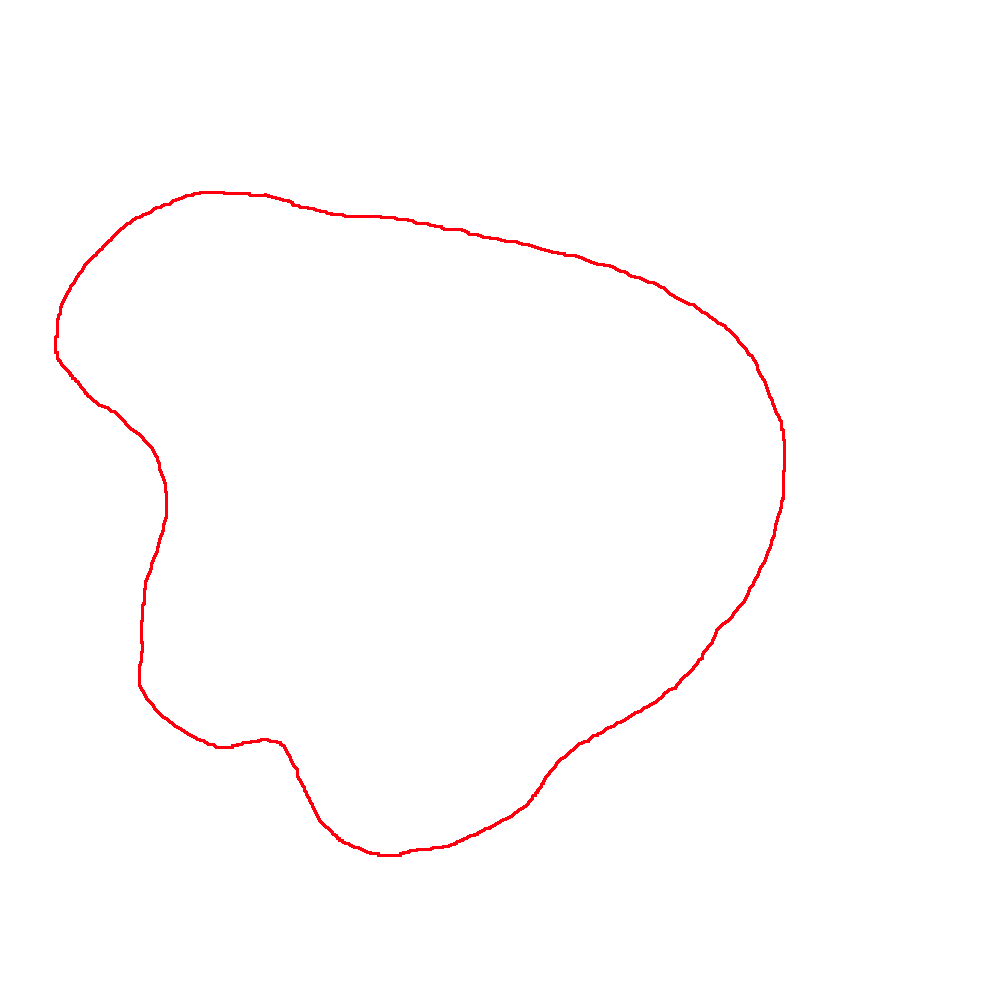
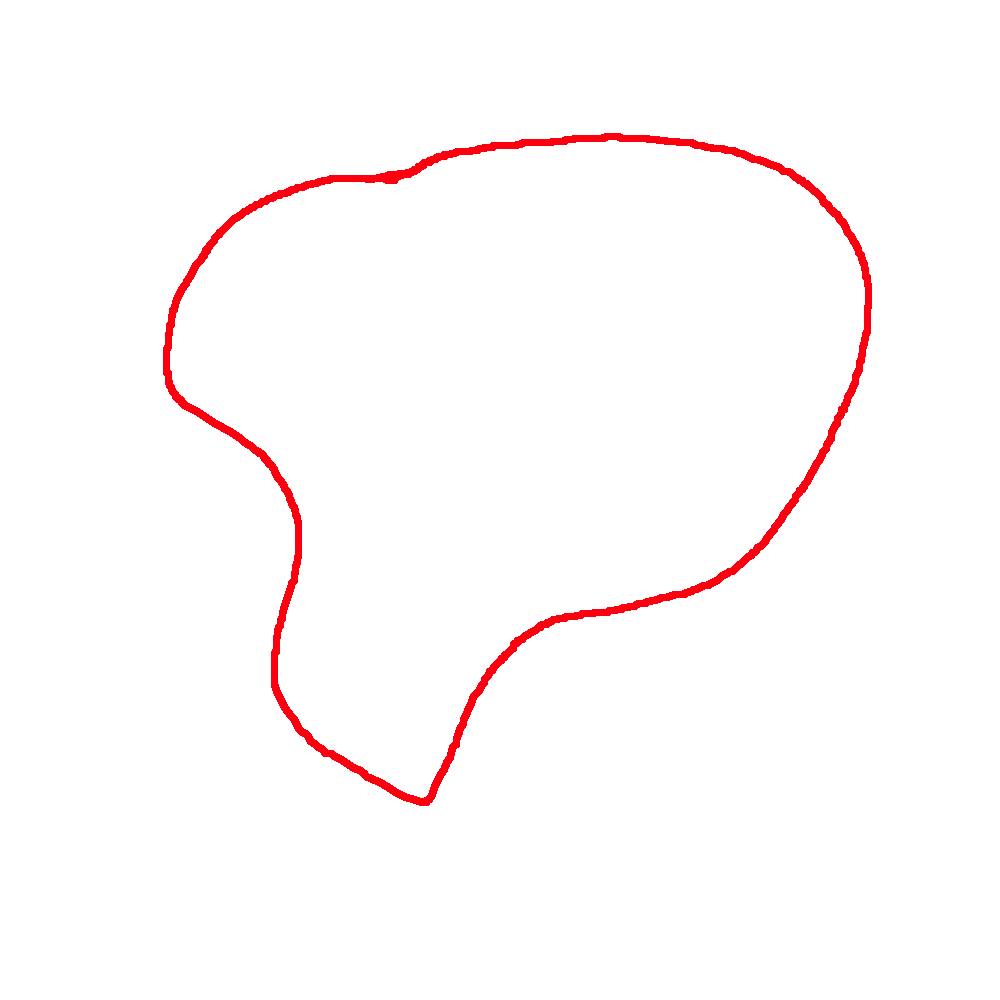
more cleanup

diff --git a/generate_track.py b/generate_track.py
@@ -3,10 +3,27 @@ import os
 import cv2
 import numpy as np
 import sys
+
 sys.path.append(os.getcwd())
+
 
 def load_numpy_file(file_path):
     return np.load(file_path)
+
+
+def draw_contours(center, inner, outer, shape, scale_factor=1):
+    # TODO: determine shape based on size of outer ndarray
+    # TODO: apply scale_factor in separate function which takes the ndarray and returns a scaled ndarray,
+    #  then use that in the draw_numpy_file function as well
+    blank_image = np.zeros(shape, np.uint8)
+
+    cv2.drawContours(blank_image, [inner], -1, (255, 0, 0), 1)
+    cv2.drawContours(blank_image, [outer], -1, (255, 0, 0), 1)
+    cv2.drawContours(blank_image, [center], -1, (12, 215, 255), 1)
+    cv2.imshow("Track", blank_image)
+
+    pass
+
 
 def draw_numpy_file(file_path, x_offset=0, y_offset=6, scale=100):
     track = np.load(file_path)
@@ -15,9 +32,9 @@ def draw_numpy_file(file_path, x_offset=0, y_offset=6, scale=100):
     outer_line = []
 
     for i, row in enumerate(track, start=0):
-        center_line.append(((row[0] + x_offset) * scale, (row[1] + y_offset)*scale))
-        inner_line.append(((row[2] + x_offset)*scale, (row[3] + y_offset)*scale))
-        outer_line.append(((row[4] + x_offset)*scale, (row[5] + y_offset)*scale))
+        center_line.append(((row[0] + x_offset) * scale, (row[1] + y_offset) * scale))
+        inner_line.append(((row[2] + x_offset) * scale, (row[3] + y_offset) * scale))
+        outer_line.append(((row[4] + x_offset) * scale, (row[5] + y_offset) * scale))
 
     tr_image = np.zeros((1000, 1000, 3), np.uint8)
     cv2.drawContours(tr_image, [np.array(inner_line, dtype=int, copy=False)], -1, (255, 0, 0), 1)
@@ -30,7 +47,7 @@ def get_perpendicular_coordinates(p1, p2, length):
     vX = p2[0] - p1[0]
     vY = p2[1] - p1[1]
     if (vX == 0 or vY == 0):
-        return 0, 0, 0, 0
+        return None, None
     mag = math.sqrt(vX * vX + vY * vY)
     vX = vX / mag
     vY = vY / mag
@@ -44,7 +61,7 @@ def get_perpendicular_coordinates(p1, p2, length):
     return (int(cX), int(cY)), (int(dX), int(dY))
 
 
-def calculate_boundaries(centerline, track_width=10):
+def calculate_boundaries(centerline, track_width=30):
     inner = []
     outer = []
     cl = np.asarray(centerline)
@@ -53,6 +70,8 @@ def calculate_boundaries(centerline, track_width=10):
             p1 = np.asarray(centerline[i - 1][0])
             p2 = np.asarray(centerline[i][0])
             inner_point, outer_point = get_perpendicular_coordinates(p1, p2, track_width)
+            if inner_point is None or outer_point is None:
+                continue
             inner.append(inner_point)
             outer.append(outer_point)
 
@@ -61,7 +80,7 @@ def calculate_boundaries(centerline, track_width=10):
 
 def detect_contour(img, desired_points=None):
     gray = cv2.cvtColor(img, cv2.COLOR_BGR2GRAY)
-    blurred = cv2.GaussianBlur(gray, (5, 5), 0)
+    blurred = cv2.GaussianBlur(gray, (7, 7), 0)
     edged = cv2.Canny(blurred, 30, 200)
 
     cnts, _ = cv2.findContours(edged.copy(), cv2.RETR_EXTERNAL, cv2.CHAIN_APPROX_SIMPLE)
@@ -83,29 +102,16 @@ def detect_contour(img, desired_points=None):
             return np.array(approx, dtype=int, copy=False)
 
 
-image = cv2.imread(os.path.join(os.curdir, 'shapes', 'track-shape.png'))
-# image = cv2.imread(os.path.join(os.curdir, 'shapes', 'sample-shape-2.png'))
+# image = cv2.imread(os.path.join(os.curdir, 'shapes', 'track-shape.png'))
+image = cv2.imread(os.path.join(os.curdir, 'shapes', 'sample-shape-2.png'))
 
-center_line = detect_contour(image, desired_points=200)
-print('smoothed contour length: {}'.format(len(center_line)))
-inner, outer = calculate_boundaries(center_line, 30)
+center = detect_contour(image, desired_points=200)
+print('smoothed contour length: {}'.format(len(center)))
+inner, outer = calculate_boundaries(center, 10)
 
-shape = image.shape
-
-blank_image = np.zeros(shape, np.uint8)
-
-cv2.drawContours(blank_image, [inner], -1, (255, 0, 0), 4)
-cv2.drawContours(blank_image, [outer], -1, (255, 0, 0), 4)
-cv2.drawContours(blank_image, [center_line], -1, (12, 215, 255), 4)
-cv2.imshow("Track", blank_image)
-
-
+draw_contours(center, inner, outer, image.shape, scale_factor=1)
 
 draw_numpy_file(os.path.join('numpy-files', 'Canada_Eval-2.npy'))
-
-
-
-
 
 cv2.waitKey(0)
 cv2.destroyAllWindows()
